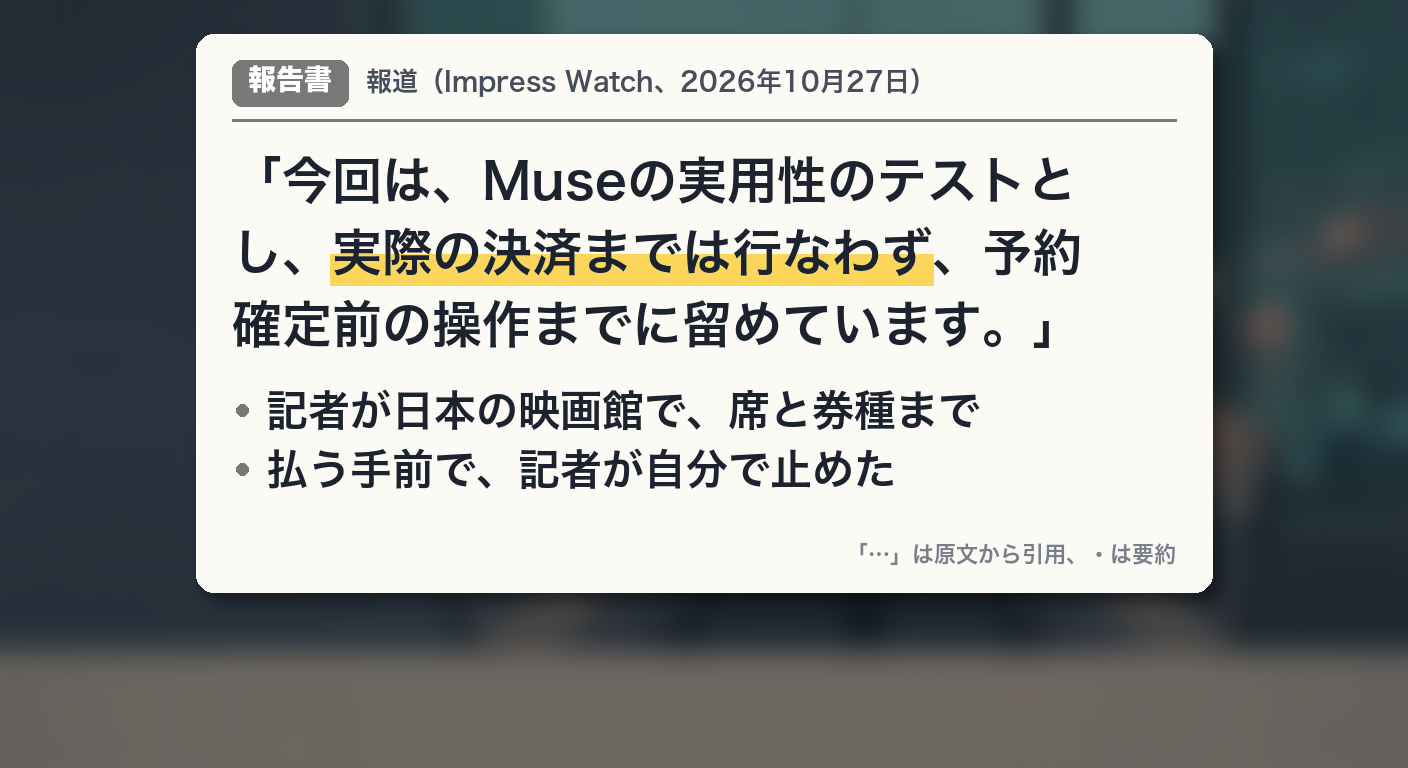
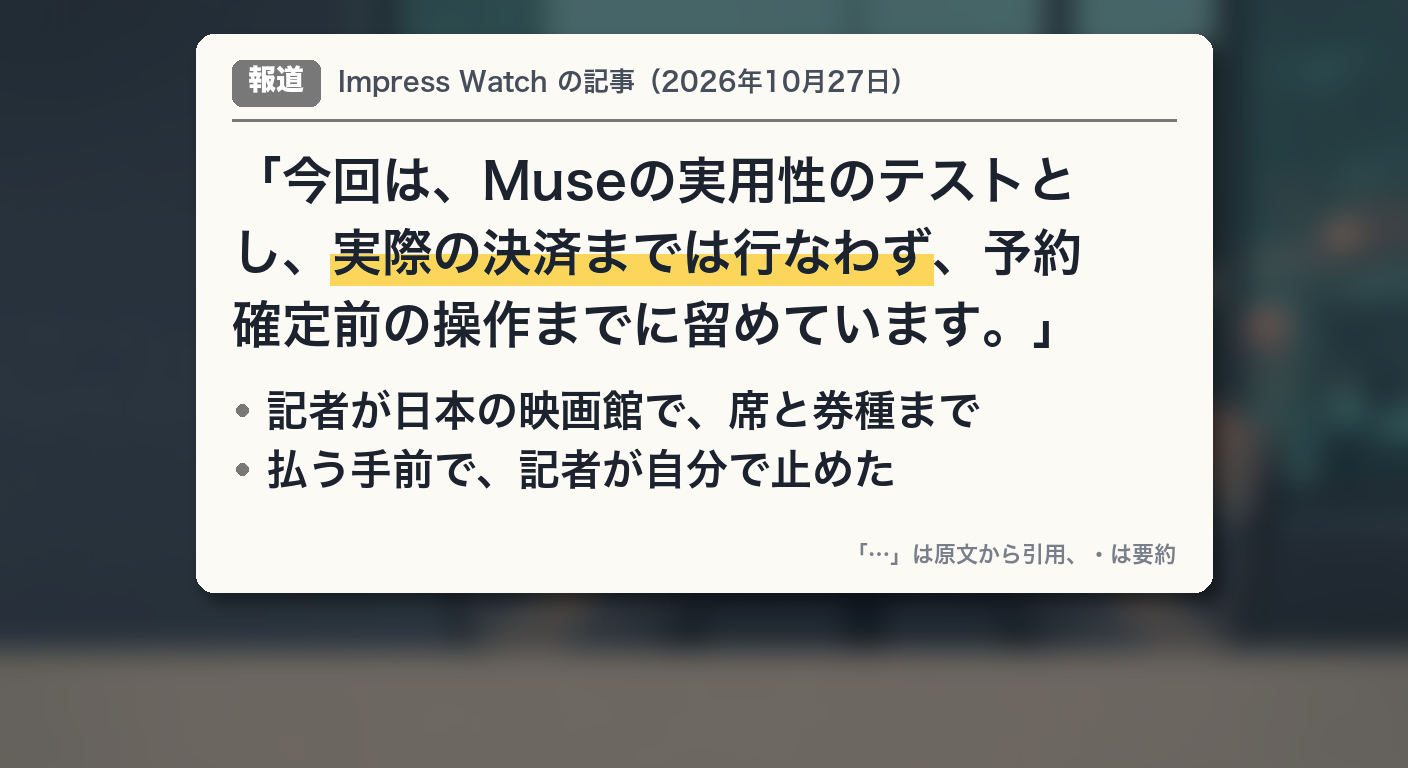
kl059: 画像・資料カードのレビュー（レオ）の修正を反映

Changed region(s): [[0.1875, 0.0625, 0.6562, 0.1562]]

diff --git a/kl_dialogue.py b/kl_dialogue.py
@@ -117,6 +117,7 @@ CARD_KINDS = {  # 資料カードの種類 → 見出しの色
     "report": ("報告書", (120, 120, 120)),
     "transcript": ("書き起こし", (176, 96, 64)),   # 発言・説明会の書き起こし（2026-11-03、kl051）
     "web":    ("製品ページ", (60, 130, 90)),       # 会社の製品紹介ページ（2026-11-03、kl051）
+    "news":   ("報道", (120, 120, 120)),           # 報道記事（一次資料ではない。2026-11-19、kl059: report の「報告書」では誤り）
 }
 CARD_DIR = BASE_DIR / "assets" / "cards"
 

diff --git a/handoff/progress/kl059.md b/handoff/progress/kl059.md
@@ -15,3 +15,4 @@
 - なるさんの決定: 3Dセキュアの件は「ケースもあった」の表現のままでよい（どの買い物かは特定しない）
 - なるさんの指示: 台詞・画面・タイトル等で「制作者」とは言わず「体験者」にする（Museで買い物を試した人の呼び方）
 - 2026-11-19: Muse経由でなるさんの回答: 案Aで進める／払っていいかの承認画面は出た／チェックリスト9番目の追加OK。旧版素材は Drive KL059_v1_wallet・Desktop kagaku-life_kl059_v1 に退避。queue=in_production
+- 2026-11-19 写真探し（作り直し）: 'Meta Muse AI'（美術館の像など無関係）／'Muse AI app smartphone'・'movie theater ticket smartphone'（0件）→使える写真なし。AI挿絵3枚＋資料カードで通す
